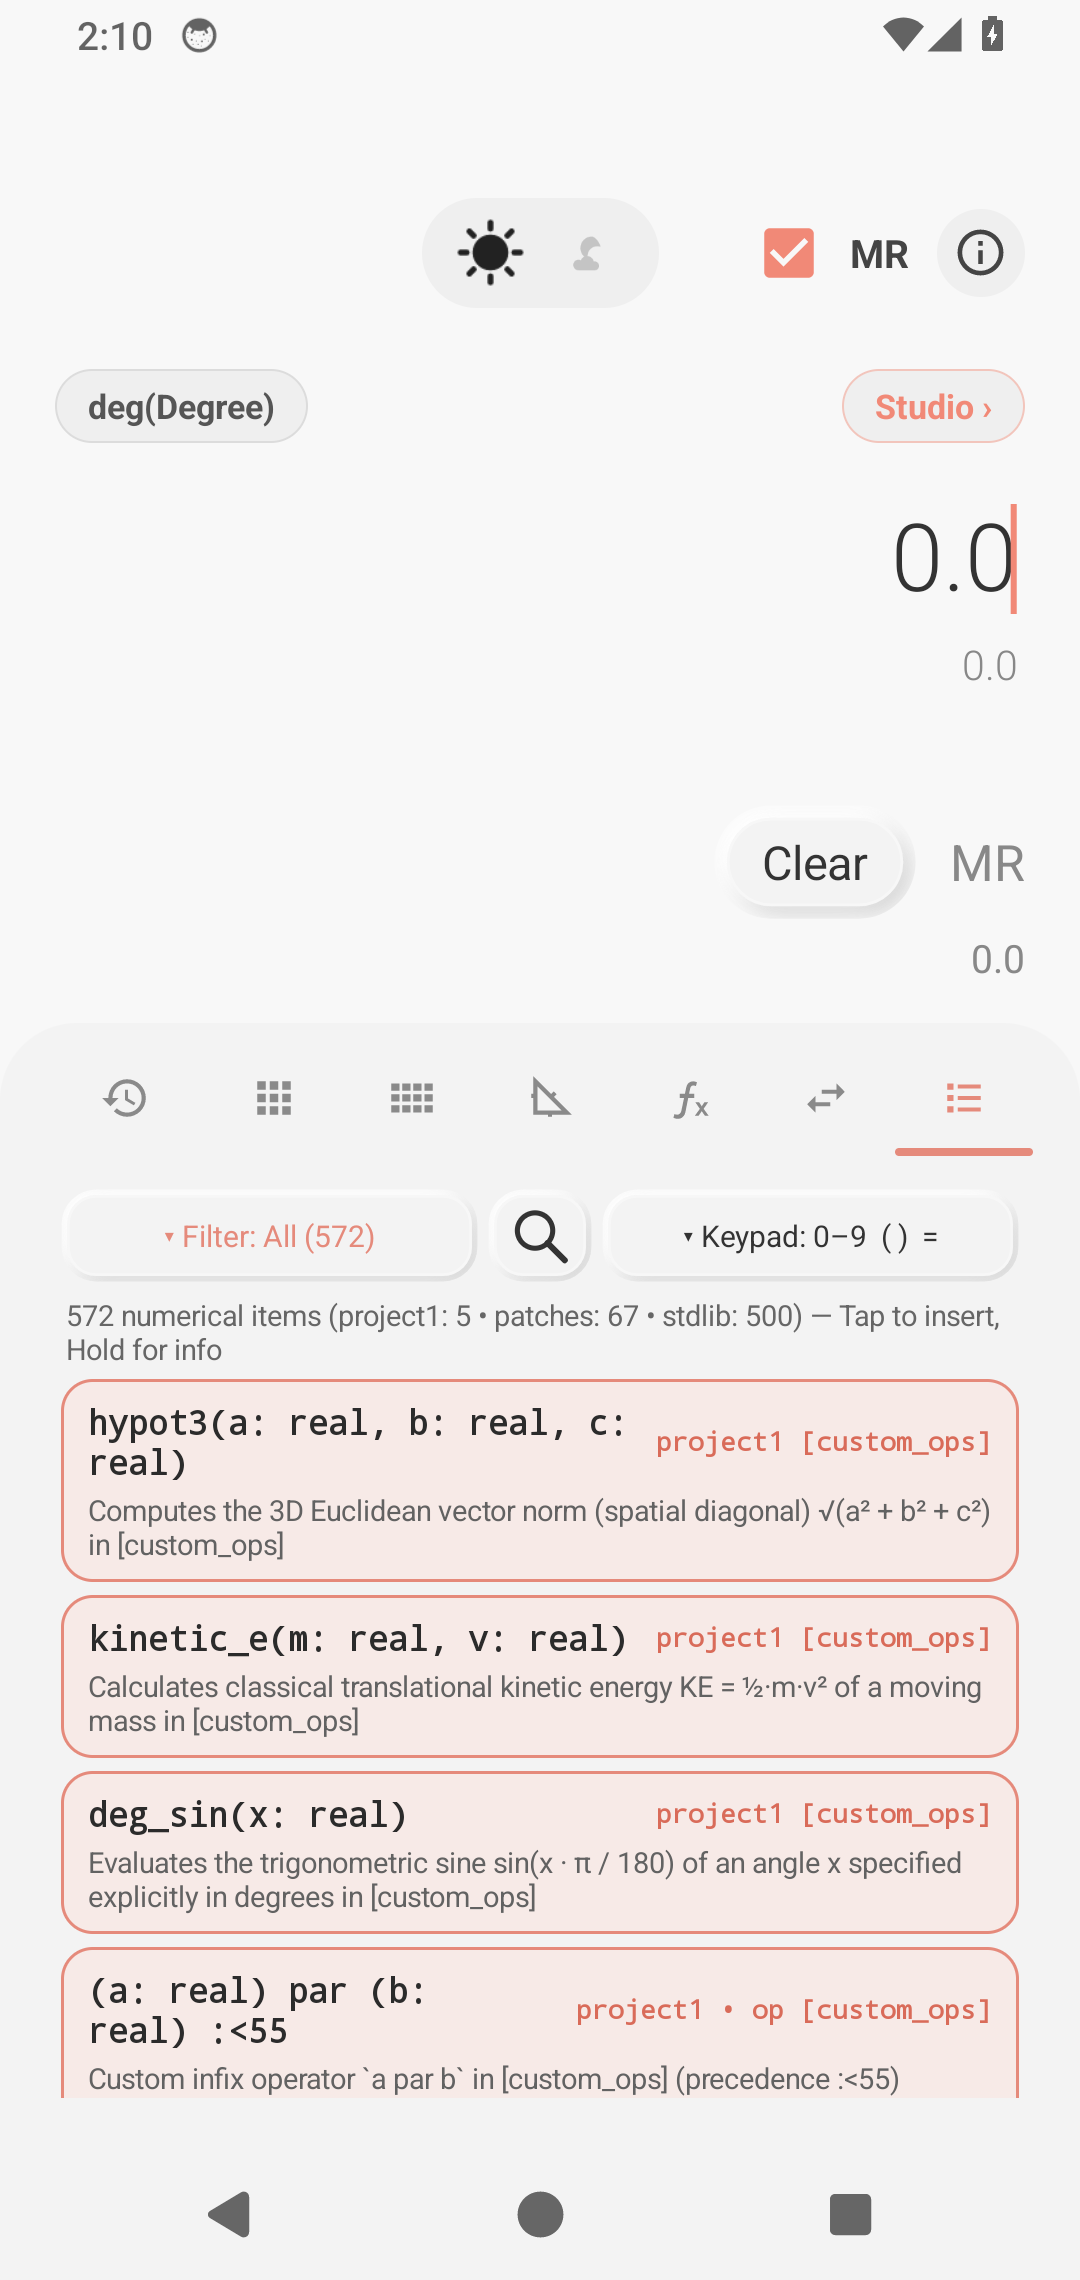
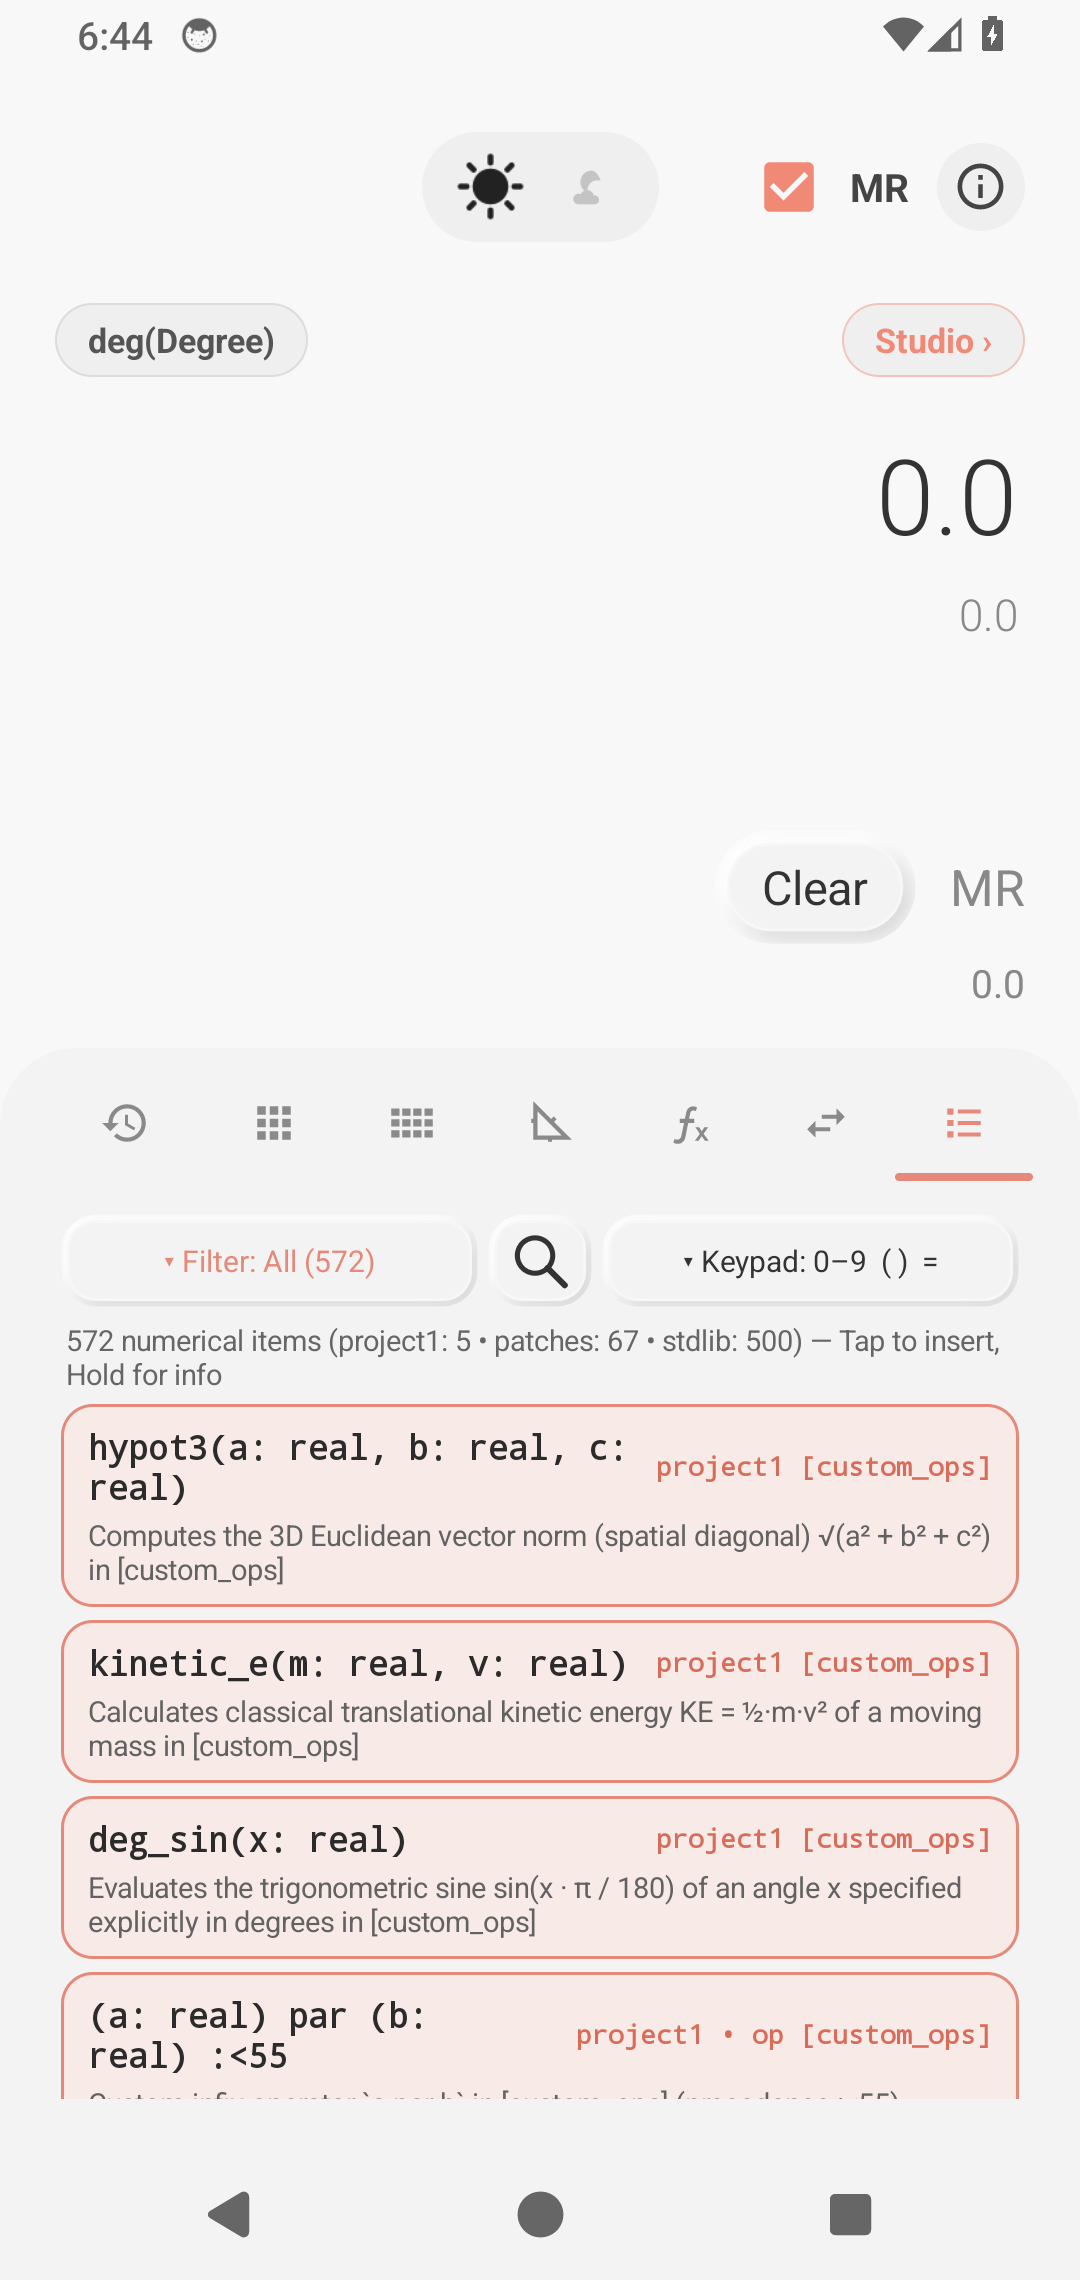
store: re-capture 1.0.16 screenshots after the edge-to-edge fix
Header now clears the status bar by 48dp on API 30/34 instead of 72dp, matching
Android 15/16. Capture also waits out the startup patch-sync toast.

diff --git a/store/listing.md b/store/listing.md
@@ -83,9 +83,13 @@ MEP Calc is open source. The engine is available at
 https://github.com/Amit2286658/Math-Engine-MEP
 ```
 
-## Version notes (build 1.0.15)
+## Version notes (build 1.0.16)
 
 ```
+• Header spacing fix: the theme switcher, MR and info row now sit the same
+  distance below the status bar on every Android version. Android 7–14 builds
+  previously reserved the status-bar height twice, leaving a toolbar-sized empty
+  band above the header (Android 15/16 already looked right).
 • First release under the com.amitutilitysoft.mepcalc application ID, so the app
   is unmistakably MEP Calc by Amit UtilitySoft.
 • Universal native maths engine for 64-bit ARM, 32-bit ARM and x86_64.
@@ -108,6 +112,6 @@ https://github.com/Amit2286658/Math-Engine-MEP
    spares; every shot is a real capture, no mockups).
 3. Paste the short and full description above.
 4. Paste the privacy policy URL.
-5. Upload `ecalc-release-v15.apk` (signed, universal, from the
-   `ecalc-release-apk-v15` CI artifact) — **not** any `*-debug-*` or
+5. Upload `ecalc-release-v16.apk` (signed, universal, from the
+   `ecalc-release-apk-v16` CI artifact) — **not** any `*-debug-*` or
    `*CI-ONLY*` artifact.
